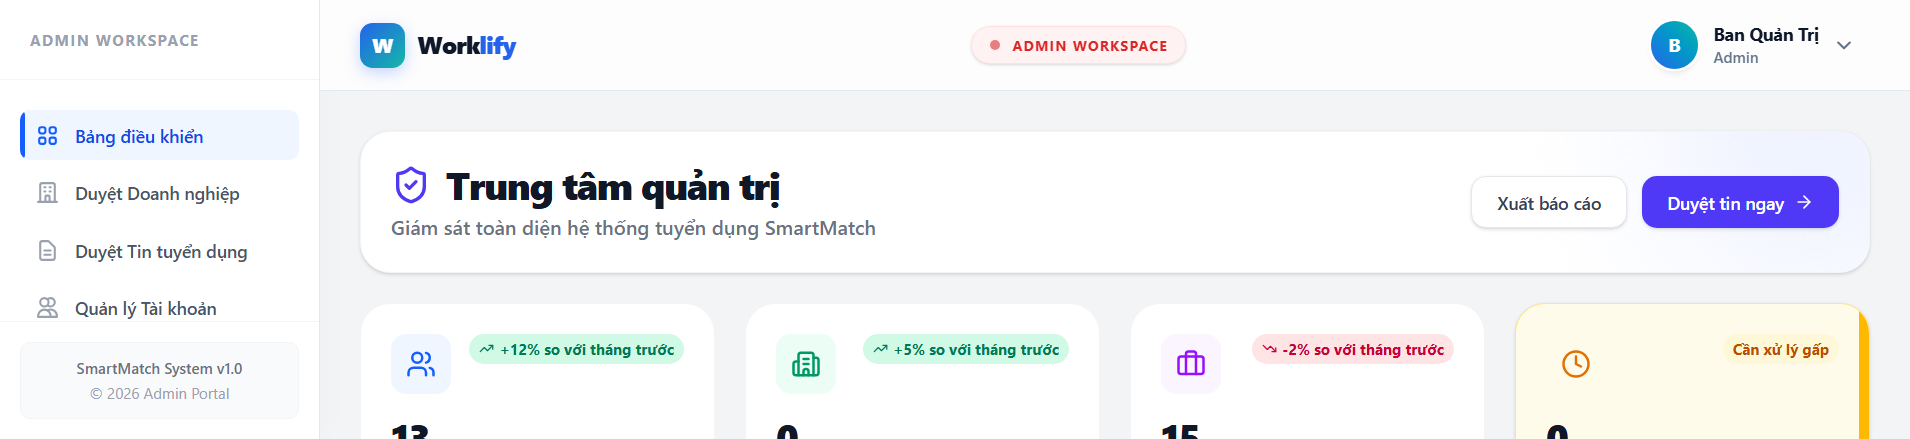
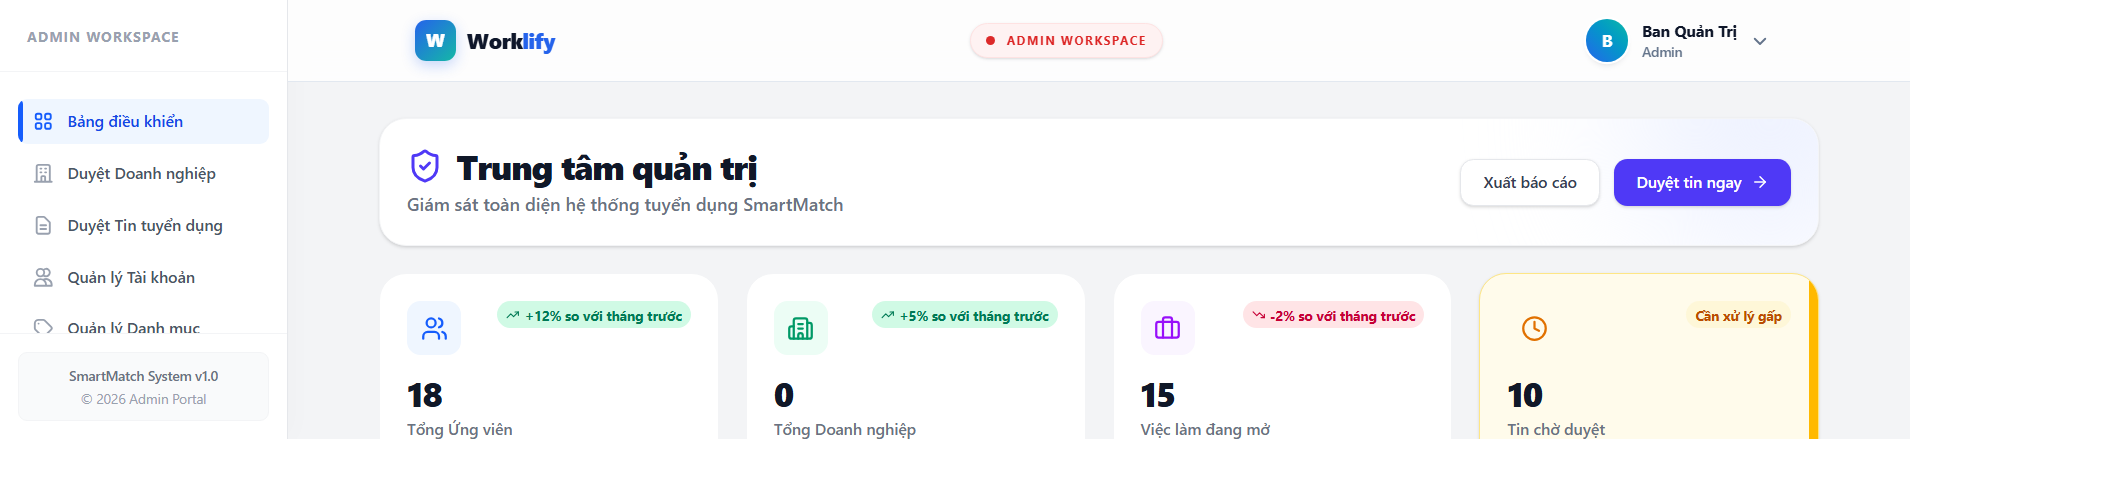
update

diff --git a/README.md b/README.md
@@ -471,18 +471,6 @@ da_SmartMatch/
 
 ---
 
-## 👥 Đóng Góp
-
-Mọi đóng góp đều được chào đón! Vui lòng đọc hướng dẫn sau:
-
-1. Fork repository
-2. Tạo feature branch: `git checkout -b feature/ten-tinh-nang`
-3. Commit thay đổi: `git commit -m 'feat: Thêm tính năng ABC'`
-4. Push lên branch: `git push origin feature/ten-tinh-nang`
-5. Tạo Pull Request
-
----
-
 ## 📄 Giấy Phép
 
 Dự án được phân phối theo giấy phép **MIT License**. Xem thêm tại file [`LICENSE`](./LICENSE).